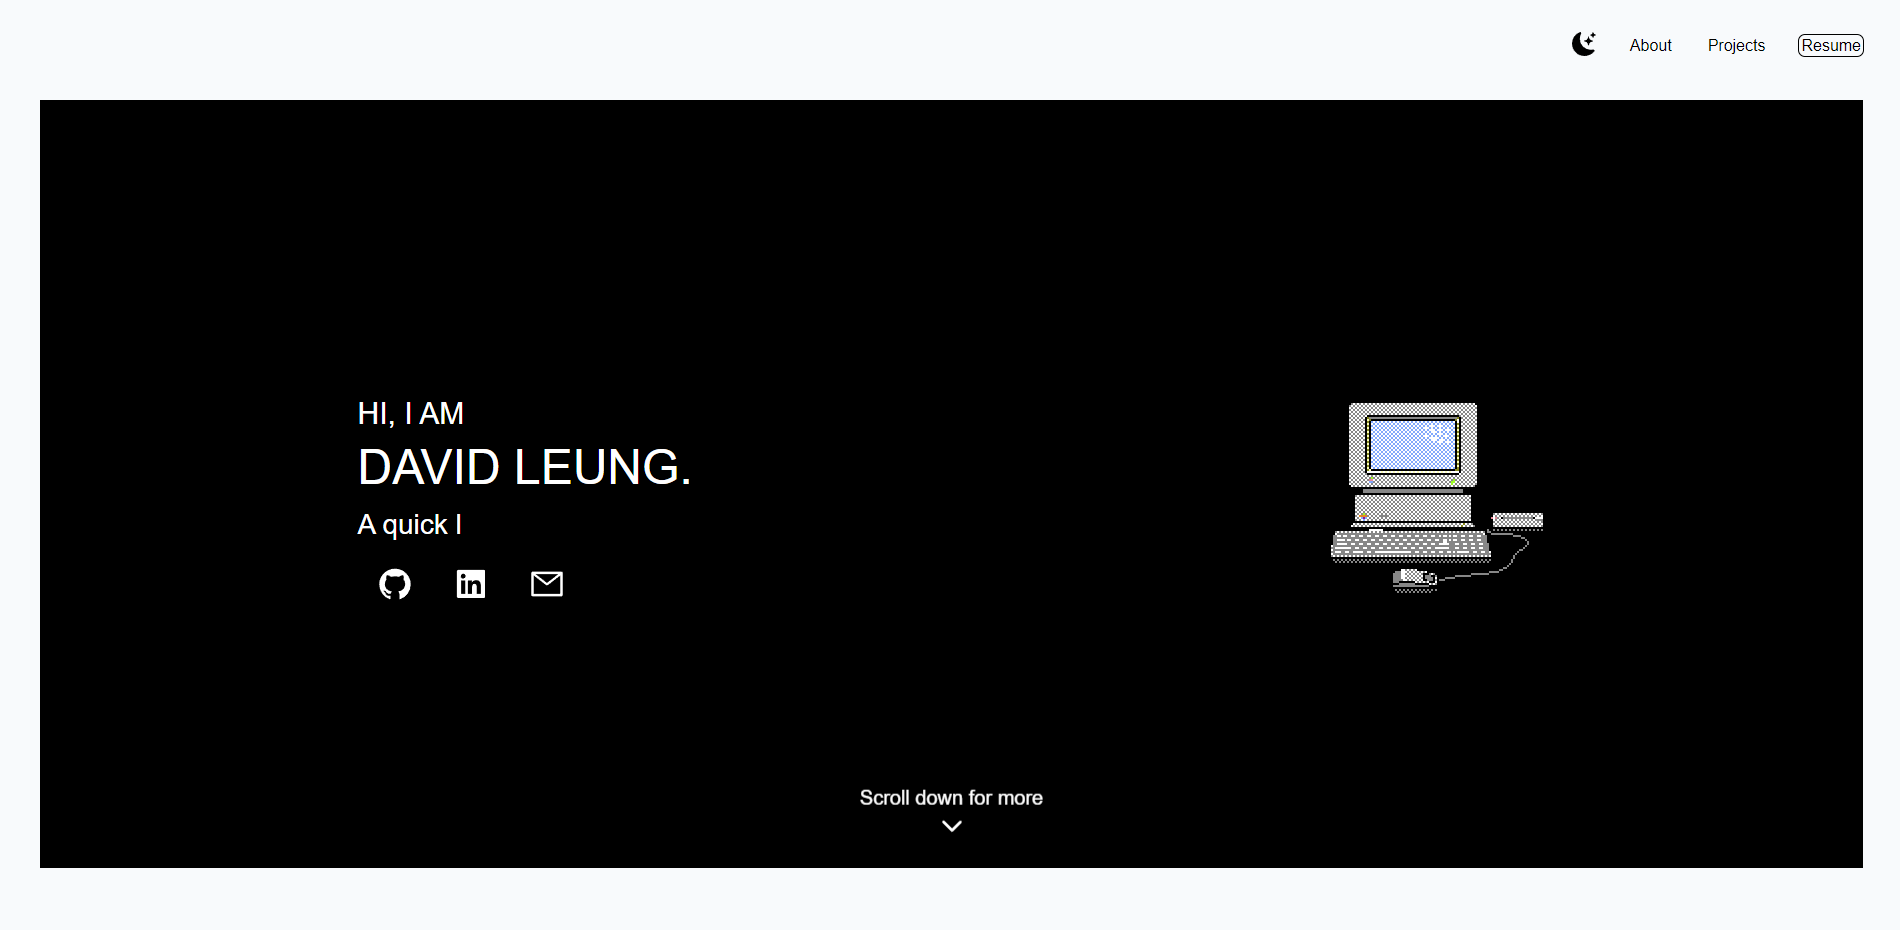
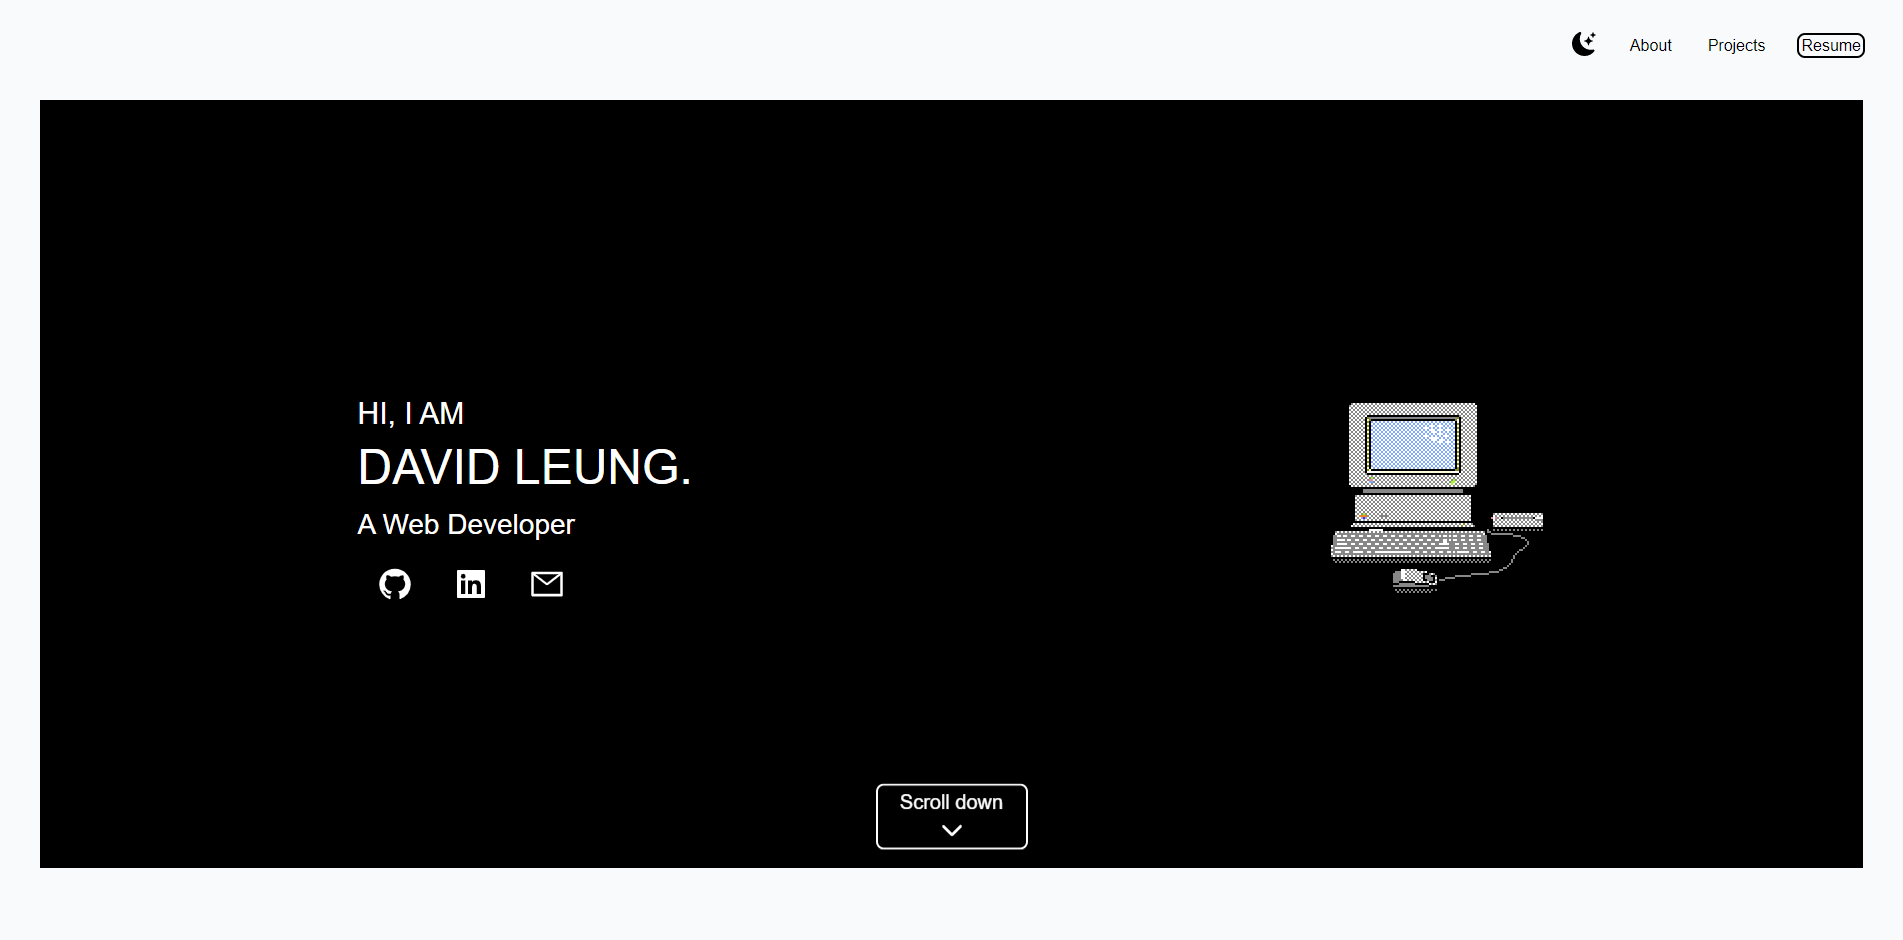
small update

diff --git a/src/components/Projects.jsx b/src/components/Projects.jsx
@@ -42,7 +42,7 @@ const Projects = ({ projectsRef }) => {
             </p>
           </div>
         </div>
-        <div className="pt-8 xl:w-1/2 xl:flex xl:justify-center js-show-on-scroll">
+        <div className="border max-xl:mt-8 xl:w-1/2 xl:flex xl:justify-center js-show-on-scroll">
           <div className="hover:translate-y-1 hover:scale-105 duration-300">
             <img
               className="object-contain"
@@ -52,7 +52,7 @@ const Projects = ({ projectsRef }) => {
           </div>
         </div>
       </div>
-      <div className="pt-8 xl:flex flex-row-reverse xl:mt-8 xl:items-center">
+      <div className="mt-8 xl:flex flex-row-reverse xl:mt-8 xl:items-center">
         <div className="px-2 xl:w-1/2 xl:flex xl:justify-center">
           <div className="border h-[300px] xl:w-[500px] xl:h-[400px] flex flex-col items-center justify-center shadow-lg rounded-xl hover:translate-y-1 hover:scale-105 duration-300 ">
             <AiOutlineDeploymentUnit className="text-3xl md:text-5xl" />
@@ -67,7 +67,7 @@ const Projects = ({ projectsRef }) => {
             </p>
           </div>
         </div>
-        <div className="pt-8 xl:w-1/2 xl:flex xl:justify-center js-show-on-scroll">
+        <div className="border max-xl:mt-8 xl:w-1/2 xl:flex xl:justify-center js-show-on-scroll">
           <div className="hover:translate-y-1 hover:scale-105 duration-300">
             <img
               className="object-contain"
@@ -77,7 +77,7 @@ const Projects = ({ projectsRef }) => {
           </div>
         </div>
       </div>
-      <div className="pt-8 xl:flex xl:mt-8 xl:items-center">
+      <div className="mt-8 xl:flex xl:mt-8 xl:items-center">
         <div className="px-2 xl:w-1/2 xl:flex xl:justify-center">
           <div className="border h-[300px] xl:w-[500px] xl:h-[400px] flex flex-col items-center justify-center shadow-lg rounded-xl hover:translate-y-1 hover:scale-105 duration-300 ">
             <AiOutlineGlobal className="text-3xl md:text-5xl" />
@@ -91,7 +91,7 @@ const Projects = ({ projectsRef }) => {
             </p>
           </div>
         </div>
-        <div className="pt-8 xl:w-1/2 xl:flex xl:justify-center js-show-on-scroll">
+        <div className="border max-xl:mt-8 xl:w-1/2 xl:flex xl:justify-center js-show-on-scroll">
           <div className="hover:translate-y-1 hover:scale-105 duration-300">
             <img
               className="object-contain"

diff --git a/src/components/About.jsx b/src/components/About.jsx
@@ -35,11 +35,11 @@ const About = ({ aboutRef, projectsRef }) => {
           ) : null}
         </div>
         <div className="pt-10 px-1 md:text-left">
-          <div className="text-xl lg:text-3xl">HI, I AM</div>
-          <div className="pt-3 text-3xl lg:text-5xl">DAVID LEUNG.</div>
+          <div className="text-xl lg:text-3xl">Hi, I am</div>
+          <div className="pt-3 text-3xl lg:text-5xl">David Leung.</div>
           <TypeAnimation
             sequence={[
-              "A frontend developer.",
+              "A web developer.",
               1000, // Waits 1s
               "A problem solver.",
               1000, // Waits 1s
@@ -75,14 +75,14 @@ const About = ({ aboutRef, projectsRef }) => {
       <div className="pt-40 pb-4 md:pt-48">
         <div className="w-full flex justify-center">
           <div
-            className="w-48 cursor-pointer animate-bounce"
+            className="w-36 cursor-pointer animate-bounce outline outline-offset-2 outline-2 rounded "
             onClick={() => {
               projectsRef.current.scrollIntoView();
             }}
           >
-            <div className="text-xl w-48">Scroll down for more</div>
+            <div className="text-lg md:text-xl w-36">Scroll down</div>
             <div className="flex justify-center">
-              <IoIosArrowDown className="w-8 text-3xl" />
+              <IoIosArrowDown className="w-8 text-xl md:text-3xl" />
             </div>
           </div>
         </div>

diff --git a/src/components/NavBar.jsx b/src/components/NavBar.jsx
@@ -65,7 +65,7 @@ const NavBar = ({ aboutRef, projectsRef, resumeRef }) => {
               >
                 <a
                   className={
-                    "outline outline-offset-2 outline-1 rounded hover:bg-[#333333] hover:text-white hover:outline-orange-700"
+                    "outline outline-offset-2 outline-2 rounded hover:bg-[#333333] hover:text-white hover:outline-orange-700"
                   }
                   href="/cv.pdf"
                   download={"David_Leung_CV"}

diff --git a/src/components/Footer.jsx b/src/components/Footer.jsx
@@ -1,10 +1,5 @@
 const Footer = () => {
-  return (
-    <div className="flex justify-center">
-      {" "}
-      © 2022 David Leung. All Rights Reserved.
-    </div>
-  );
+  return <div className="flex justify-center"> v1.0 | 2022 David Leung.</div>;
 };
 
 export default Footer;
